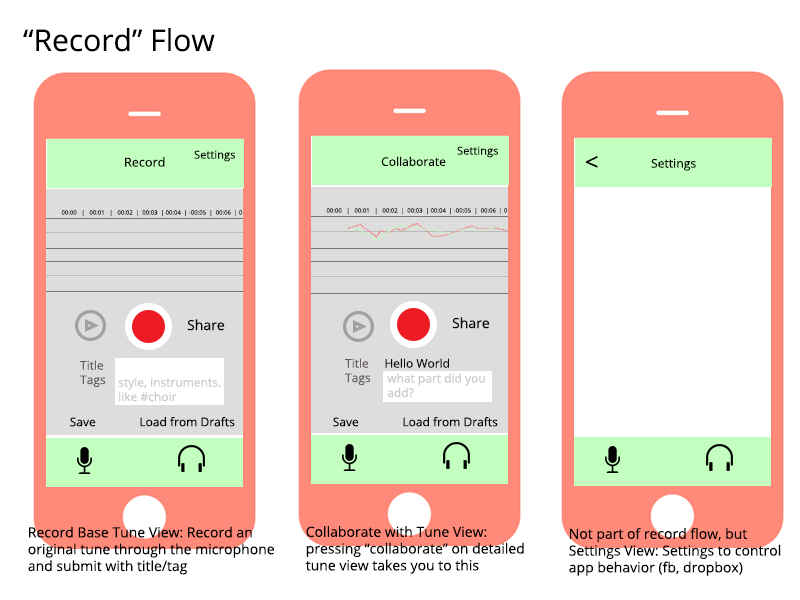
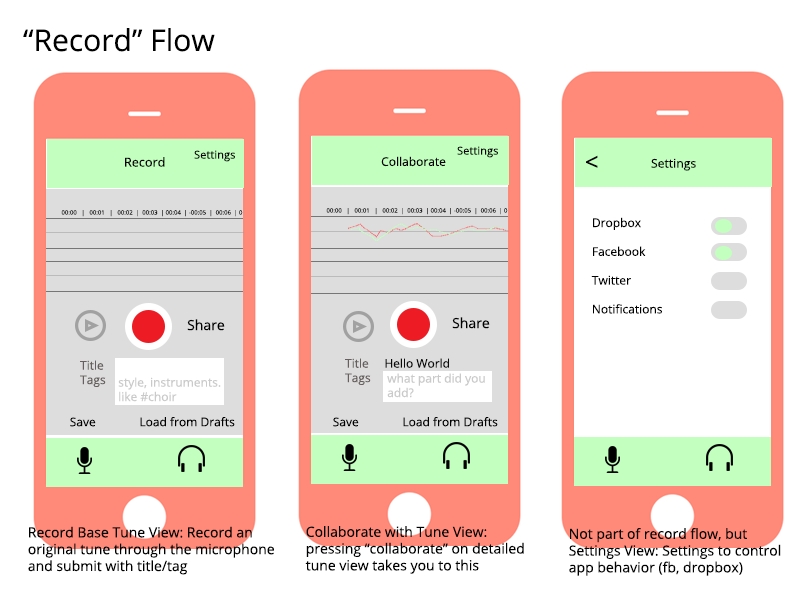
added the wireframes to readme

Changed region(s): [[0.875, 0.36, 0.9375, 0.54], [0.75, 0.36, 0.8125, 0.48], [0.75, 0.51, 0.8438, 0.54]]

diff --git a/README.md b/README.md
@@ -5,6 +5,10 @@ An app for capturing, sharing, and collaborating on musical ideas and sketches.
 
 ## User Stories
 
+![Listen Flow](https://github.com/teamVCH/sway/blob/master/wireframes/listen-flow.png)
+
+![Record Flow](https://github.com/teamVCH/sway/blob/master/wireframes/record-flow_and_settings.png)
+
 ### Compositions List
 * The user is presented with a list of compositions. Each item in the list includes the name of the composition's originator, the title, the running time, and possibly other information, such as the number of collaborators, favorites count. 
 	
